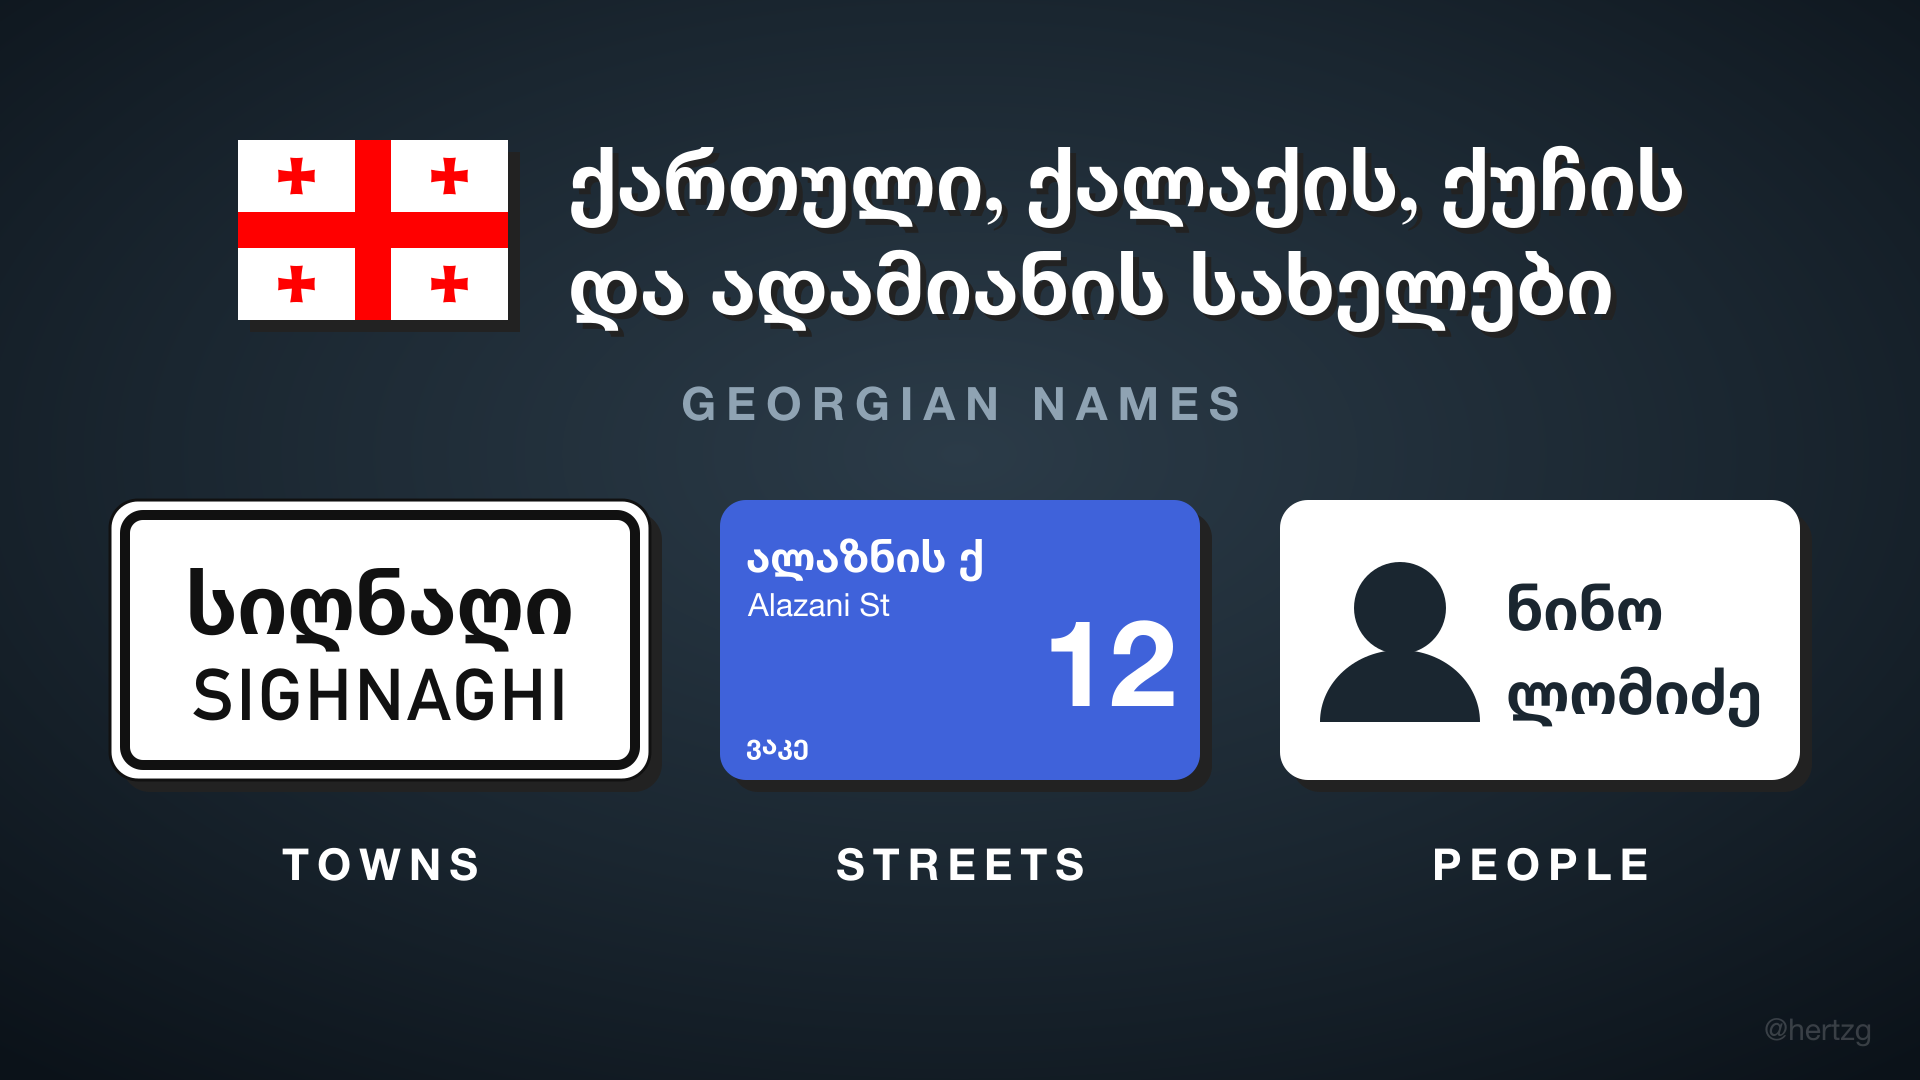
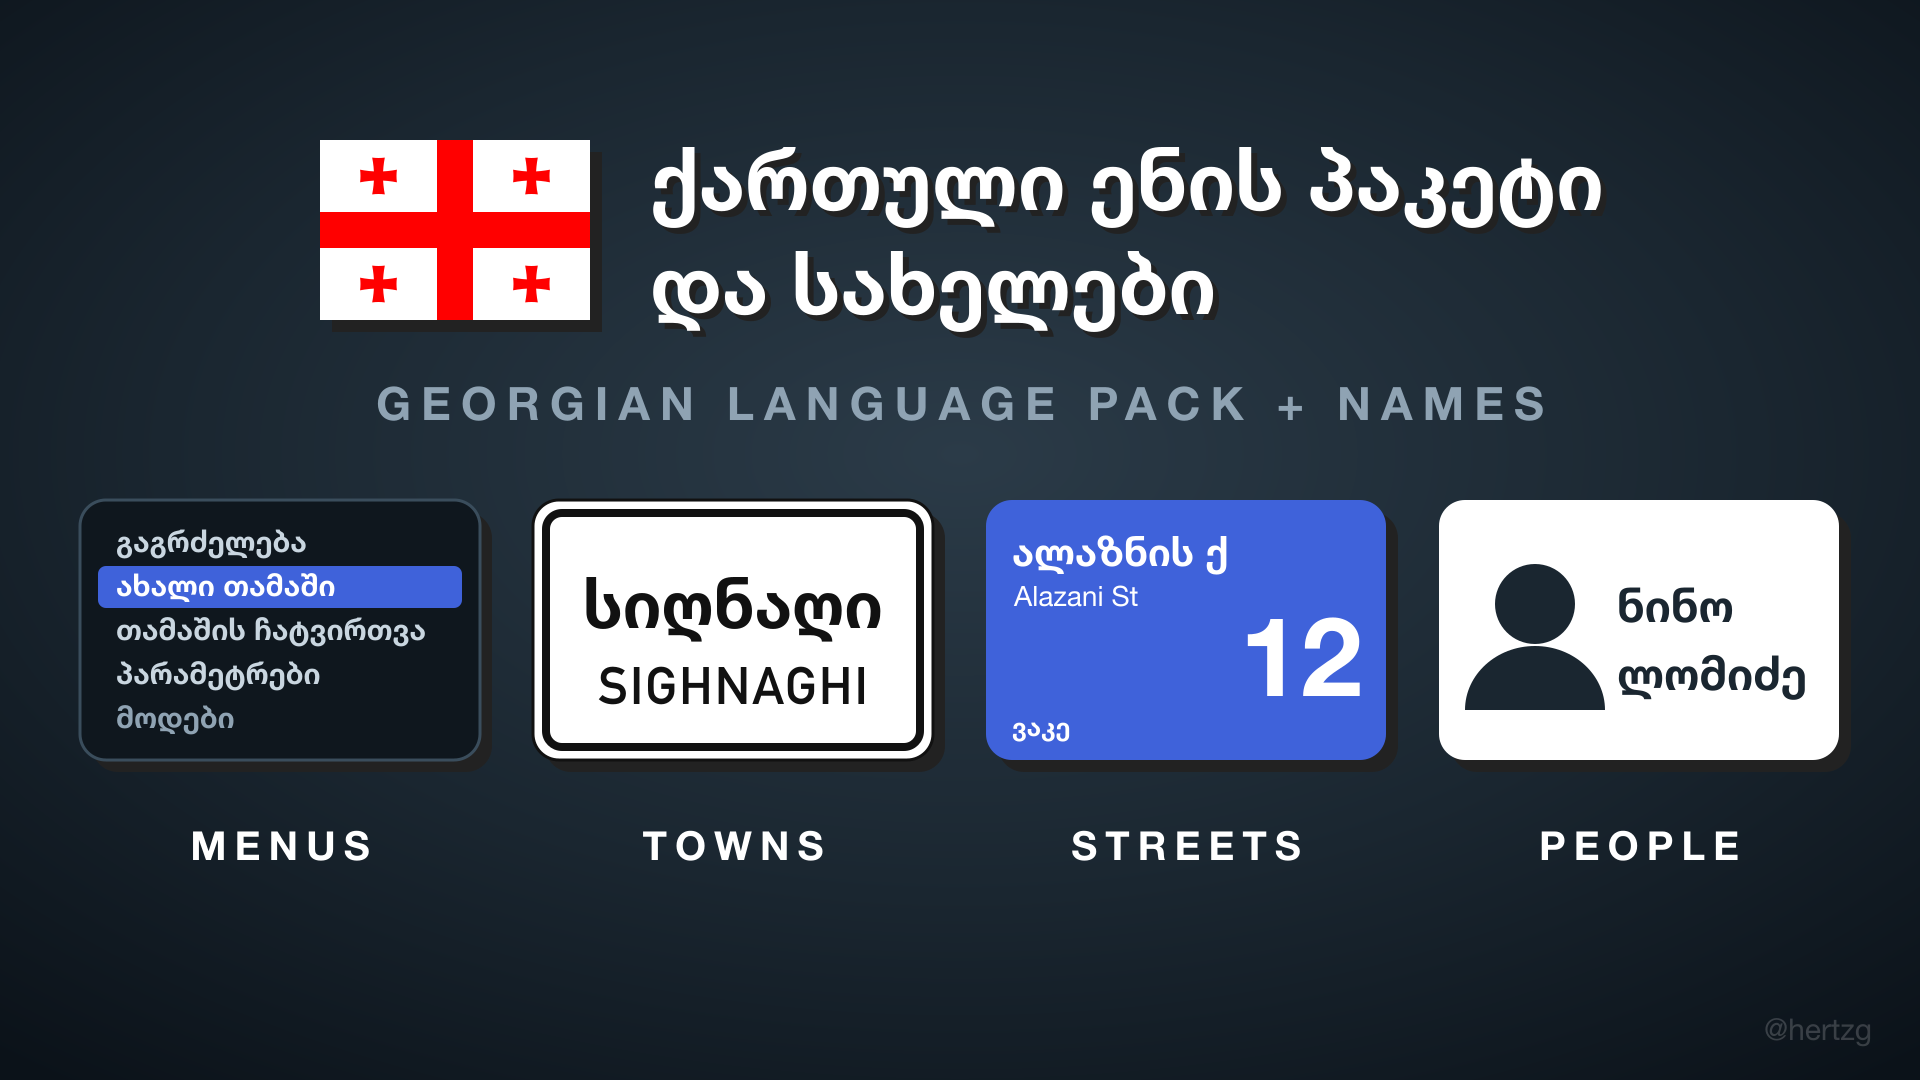
docs: describe the language pack, add setup guide and readme
The mod page still described a name set only. It now covers the Georgian
interface too, explains how to turn both on, in Georgian first, and points
to GitHub for contributions. The cover gains a menus panel.

diff --git a/README.md b/README.md
@@ -1,0 +1,69 @@
+# Georgian Language Pack + Names (ქართული)
+
+A Transport Fever 3 mod that plays the game in Georgian: about 2,400 game texts
+translated, a font that can draw Georgian letters, and a name set with real
+Georgian towns, villages, Tbilisi streets and Georgian people.
+
+![Cover](hertzg_georgian_names/_metadata/0.png)
+
+## Turn it on
+
+1. Mod Hub: subscribe to the mod.
+2. Settings > Language: pick "ქართული (Georgian)".
+3. ახალი თამაში > მოდების დამატება (New Game > Add Mods): add the mod.
+4. ახალი თამაში > სახელები (New Game > Names): pick "Georgian (ქართული)".
+
+Step 2 is needed even for the names alone: the game's own font has no Georgian
+letters.
+
+## Help with the translation
+
+შეცდომა იპოვეთ ან უკეთესი სიტყვა იცით? დაწერეთ Issue ან გამოგზავნეთ Pull Request.
+
+- **Report a string:** open an issue with a screenshot of where you saw it,
+  the text shown, and what it should say.
+- **Fix a string:** edit the matching entry in `translations/*.json` and send a
+  pull request. Each entry is the game's English text and its Georgian:
+
+  ```json
+  {"msgid": "New Game", "msgstr": "ახალი თამაში"}
+  ```
+
+  Entries can also carry `msgctxt` (same English, different meaning) and
+  `msgid_plural`; `tools/build_strings.py` explains each shape.
+- **Word choice:** plain modern Georgian, no Russian loanwords where a Georgian
+  word exists. Check doubtful terms with `python3 tools/ka_dict.py <word>`
+  (National Parliamentary Library dictionaries).
+
+## Layout
+
+```
+hertzg_georgian_names/        the mod, as the game loads it
+├── _metadata/                mod page text and cover (0.png)
+├── content/locale/           language definition and fonts
+├── content/names/            the Georgian name set
+└── strings/en/LC_MESSAGES/   built game text (base.mo), don't edit by hand
+translations/*.json           Georgian strings, the source for base.mo
+tools/
+├── build_strings.py          translations → base.mo
+├── preview.lua               print sample names without the game
+├── ka_dict.py                dictionary lookup
+├── merge_fonts.py            builds Georgian Names Sans (Lato + Noto Georgian)
+└── cover.svg                 cover source
+```
+
+## Build
+
+```sh
+# game text, after editing translations/*.json (needs gettext)
+python3 tools/build_strings.py "<TF3 install>/base/strings/en/LC_MESSAGES/base.mo"
+
+# sample names
+lua tools/preview.lua 25
+
+# cover
+rsvg-convert -w 1920 -h 1080 tools/cover.svg -o hertzg_georgian_names/_metadata/0.png
+```
+
+To try your changes in the game, link `hertzg_georgian_names/` into the game's
+`staging_area` folder (next to `settings.lua` in the game's user data).
